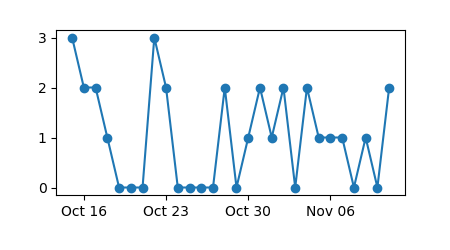
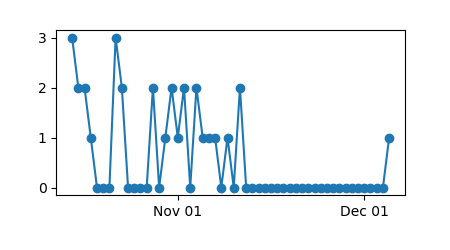
unpub saildrone

diff --git a/readingStats.py b/readingStats.py
@@ -36,7 +36,7 @@ idx = pd.date_range(min(readDates.Date), max(readDates.Date))
 a =a.reindex(idx,fill_value=0)
 fig, ax = plt.subplots(figsize=(4.5,2.5))
 ax.plot(idx,a.values,'o-')
-ax.xaxis.set_major_locator(mdates.WeekdayLocator())
+ax.xaxis.set_major_locator(mdates.MonthLocator())
 #set major ticks format
 ax.xaxis.set_major_formatter(mdates.DateFormatter('%b %d'))
 plt.gcf().subplots_adjust(bottom=0.22)

diff --git a/acoustics/DeRobertis2018InPrep.md b/acoustics/DeRobertis2018InPrep.md
@@ -1,0 +1,37 @@
+12/05/18
+## Authors:
+De Robertis, Alex and Lawrence-Slavas, Noah and Jenkins, Richard and Mordy, Calvin W. and Meinig, Christian and Levine, Mike and Peacock, Dave and Tabisola, Heather
+## Title:
+Comparison of acoustic backscatter measurements from unmanned sailing vehicles and a noise-reduced research vessel
+## Keywords:
+autonomous, acoustic, survey, dead zone
+## Geographic Coverage
+Bering Sea
+## Field Dates:
+05/23/2016 - 09/03/2016
+## Significance:
+Currently in preparation manuscript on the 2016 Saildrone deployment in the Bering Sea, investigating vessel avoidance during opportunistic and follow-the-leader ship-saildrone comparisons.
+
+## Notes:
+Two saildrones were outfitted with WBATs in 2016.
+- Two follow-the-leader events were done where the Oscar Dyson followed a saildrone for almost a day
+- All insatnces where the saildrone and DY crossed paths within 20km and 7 days were also used for comparison
+
+Keiser intercal was used for the vessel sA comparisons, and thus can be presented as a percent change
+
+Bubble attenuation increases as a function of windspeed
+- applications of bottom and transmit pulse filters appear to properly identify these low-biased pings
+
+Saildrone 1 consistently observed more and shallow backscatter
+- daytime: similar levels of backscatter, but shallower in the SD data
+- nighttime: higher levels of backscatter in SD, likely due to more fish in shallow water
+
+Saildrone 2 was a bit different, when fish were closer to the bottom, the SD actually detected less fish.  This is interpreted as beign driven by the larger ADZ of the wider beam on the 70-18CD transducer, so near bottom fishes are not detectable they are on the DY.
+
+For fish (large pollock), backscatter from 30-70m depth was greater when detected by the saildrone, while backscatter >70m was greater for the DY (though this was not significant).  Overall, backscatter was consistently shallower throughout the large-scale comparison.
+
+Saildrones produced good measurements overall, but there is clear degradation in high wind speeds with the generation 3 vehicle.  The echosounder compared well with the DY, though there are discrepencies that can be attributed to a combination of 1) fish avoidance 2) calibration uncertainty 3) EK60 over-amplification of low-power signal, and temporal variability in the intercalibration sampling.
+
+One cannot overlook the necessity for species composition in acoustic interpretation and thus the importance of trawling/sampling for ecological interpretation.  While there is a possibility for identification through scatterer properties, current instrumentation is not sufficient to infer ecological significance from acoustics alone unless in a well classified environment.
+
+"Future work should transition from proof-of concept studies to applied studies of marine organisms and evaluations of how the capabilities of this new technologies can be best be used to inform understanding of the abundance, distribution and behavior of marine organisms."

diff --git a/README.md b/README.md
@@ -16,6 +16,8 @@ Notes (author, year, journal in file header) on readings.  Top of each note docu
      * Arrhenius et al. deployed an upward facing echosounder in two lakes to determine the ability of a split-beam echosounder to track fish, using a stereo-video system to validate the recorded swim speeds. 
 * [Benoit-Bird2018LOM - Equipping an underwater glider with a new echosounder to explore ocean ecosystems](https://github.com/leviner/ReadingList/tree/master/acoustics/Benoit-Bird2018LOM.md) 
      * An EK80 (WBT-Mini) was installed on a slocum glider and deployed in Monterey Bay.  This paper documents the instrumentation, installation, and preliminary data from the first deployments. 
+* [DeRobertis2018InPrep - Comparison of acoustic backscatter measurements from unmanned sailing vehicles and a noise-reduced research vessel](https://github.com/leviner/ReadingList/tree/master/acoustics/DeRobertis2018InPrep.md) 
+     * Currently in preparation manuscript on the 2016 Saildrone deployment in the Bering Sea, investigating vessel avoidance during opportunistic and follow-the-leader ship-saildrone comparisons. 
 * [Foote1987JASA - Fish target strengths for use in echo integrator surveys](https://github.com/leviner/ReadingList/tree/master/acoustics/Foote1987JASA.md) 
      * An investigation into the backscattering cross section, or target strength, of fish, and the methods for in situ determination of TS and relating it to fish length.  Foote proposes a set of regression analyses from in situ measurements for generalized fish families based on available data. 
 * [TorgersenKaartvedt2001JMR - In situ swimming behaviour of individual mesopelagic fish studied by split-beam echo target tracking](https://github.com/leviner/ReadingList/tree/master/acoustics/TorgersenKaartvedt2001JMR.md) 
